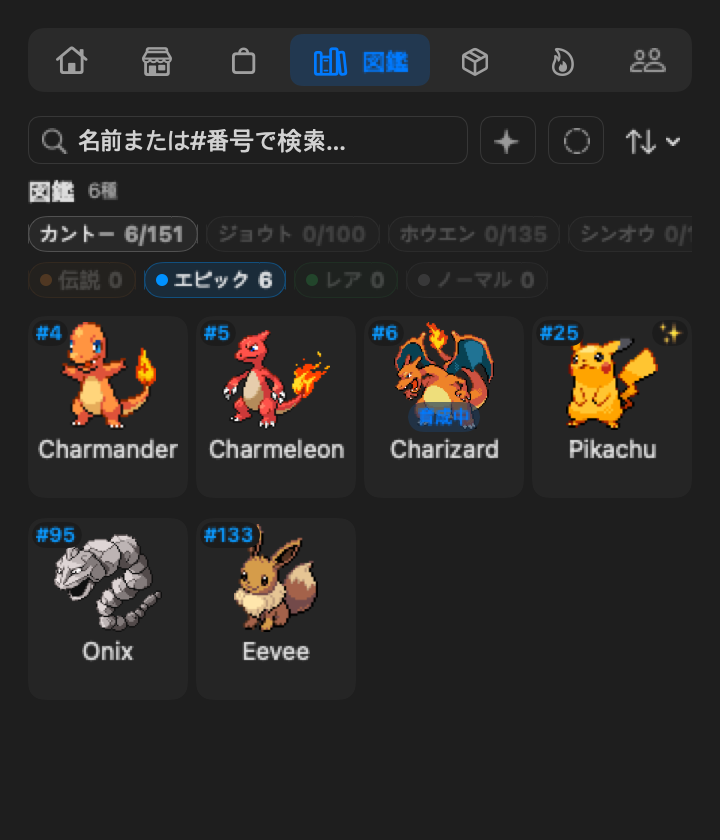
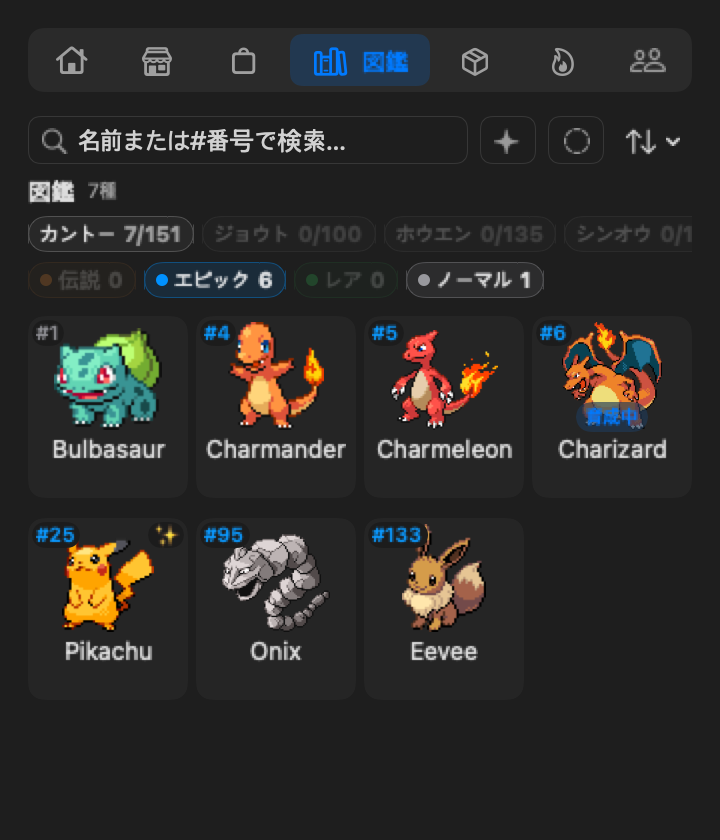
landing: let Box Pokémon join as friends, add Exp. Share moves and Box evolution, and redraw the Box, Exp. Share, Shop, gym and profile images

diff --git a/index.html b/index.html
@@ -82,7 +82,7 @@ try { var savedTheme=localStorage.getItem('ptb-theme'); if(savedTheme==='dark'||
 <article><h4 data-i18n="c2.t">Alternate forms</h4><p data-i18n="c2.d">Collect Rotom appliances, Deerling seasons, Unown letters and other Gen 1–5 forms. A form follows evolution and stays in your save.</p></article>
 <article><h4 data-i18n="c3.t">Token Shop</h4><p data-i18n="c3.d">Spend the tokens you have already used on Rare Candy, nature Mints, a Shiny Charm or a new egg.</p></article>
 <article><h4 data-i18n="c4.t">Rare Candy from limits</h4><p data-i18n="c4.d">Fill a 5-hour or weekly limit to earn Rare Candy. Use several at once and preview the growth first.</p></article>
-</div><figure class="group-media"><img src="assets/screenshot-shop.png" data-i18n-image="screenshot-shop" width="720" height="1096" loading="lazy" data-i18n-alt="alt.shop" alt="Native Shop sample showing consumable quantity controls and total price"><figcaption data-i18n="native.shop">Native UI · sample tokens · shop scroll view continues below.</figcaption></figure></div></div>
+</div><figure class="group-media"><img src="assets/screenshot-shop.png" data-i18n-image="screenshot-shop" width="720" height="1280" loading="lazy" data-i18n-alt="alt.shop" alt="Native Shop sample showing consumable quantity controls and total price"><figcaption data-i18n="native.shop">Native UI · sample tokens · shop scroll view continues below.</figcaption></figure></div></div>
 <div class="feature-group"><h3 data-i18n="grp.settings">Settings and extras</h3><div class="group-body"><div class="card-grid">
 <article><h4 data-i18n="x1.t">Eight languages</h4><p data-i18n="x1.d">The app UI comes in eight languages. Pokémon, type, ability and move names follow your language, with English as the fallback.</p></article>
 <article><h4 data-i18n="x2.t">Backups</h4><p data-i18n="x2.d">Automatic snapshots and corruption recovery, plus manual export and restore in Settings.</p></article>
@@ -102,8 +102,8 @@ try { var savedTheme=localStorage.getItem('ptb-theme'); if(savedTheme==='dark'||
 <article class="fork-card"><h3 data-i18n="k15.t">See what comes next</h3><p data-i18n="k15.d">A Pokédex page shows how the species evolves next and what the app asks for, like Munchlax’s 30 pets to become Snorlax. When the Pokémon you raise is on that path, the card shows its progress. On Home, tap the next form to open its page.</p><figure><img src="assets/screenshot-dex-next-evolution.png" data-i18n-image="screenshot-dex-next-evolution" width="720" height="1020" loading="lazy" data-i18n-alt="alt.nextEvo" alt="Native Pokédex page sample for Snorlax with the 30-pet condition at 3/30"><figcaption data-i18n="native.current">Native UI renders · sample states</figcaption></figure></article>
 <article class="fork-card"><h3 data-i18n="k7.t">Held items and Mega Evolution</h3><p data-i18n="k7.d">Equip a held item on a Pokémon’s Box page. The Shop and Bag group battle items by what they do, from attack boosts to weather. A Pokémon holding its Mega Stone Mega Evolves at the start of a battle, and Home, the floating pet and the menu bar show the Mega form.</p><figure class="crop"><img src="assets/screenshot-held-items.png" data-i18n-image="screenshot-held-items" width="720" height="1638" loading="lazy" data-i18n-alt="alt.held" alt="Native Shop and Bag sample with held items under Attack boost and Type boost"><figcaption data-i18n="native.current">Native UI renders · sample states</figcaption></figure></article>
 <article class="fork-card"><h3 data-i18n="k8.t">Moves and TMs</h3><p data-i18n="k8.d">A Pokémon’s Box page lists its four moves, and you can swap one for a level-up, egg or TM move, including status moves like Swords Dance. Buy a TM once in the Shop and every Pokémon that can learn it may use it.</p><figure class="crop"><img src="assets/screenshot-pokemon-profile.png" data-i18n-image="screenshot-pokemon-profile" width="720" height="1120" loading="lazy" data-i18n-alt="alt.profile" alt="Native Box detail sample with a Pokémon's stats, held item, Exp. Share slot and moves"><figcaption data-i18n="native.current">Native UI renders · sample states</figcaption></figure></article>
-<article class="fork-card"><h3 data-i18n="k9.t">Exp. Share</h3><p data-i18n="k9.d">Attach an Exp. Share to one Pokémon in the Box. It gets 50% of the EXP your current Pokémon or egg earns, so a graduate keeps growing while you raise the next one. When a new egg sends your partner to the Box, an Exp. Share from your Bag goes on it.</p><figure><img src="assets/screenshot-exp-share.png" data-i18n-image="screenshot-exp-share" width="720" height="744" loading="lazy" data-i18n-alt="alt.expShare" alt="Native Box detail sample with an Exp. Share attached to Pikachu"><figcaption data-i18n="native.current">Native UI renders · sample states</figcaption></figure></article>
-<article class="fork-card"><h3 data-i18n="k11.t">Friends beside your partner</h3><p data-i18n="k11.d">Pick up to two graduated Pokémon as friends. They stand next to your partner on Home and on the floating pet, and petting a friend pops a heart over it.</p><figure><img src="assets/screenshot-floating-friends.png" width="720" height="384" loading="lazy" data-i18n-alt="alt.friends" alt="Two graduated friends standing beside the floating pet, one with a heart"><figcaption data-i18n="native.friends">Native UI render · sample Pokémon</figcaption></figure></article>
+<article class="fork-card"><h3 data-i18n="k9.t">Exp. Share</h3><p data-i18n="k9.d">Attach an Exp. Share to one Pokémon in the Box. It gets 50% of the EXP your current Pokémon or egg earns, so a graduate keeps growing while you raise the next one. When a new egg sends your partner to the Box, an Exp. Share from your Bag goes on it. Move here on a Box page moves a copy from another holder, even with an empty Bag, and a holder in the Box evolves there when the next step needs only EXP, a level, friends or a type.</p><figure><img src="assets/screenshot-exp-share.png" data-i18n-image="screenshot-exp-share" width="720" height="760" loading="lazy" data-i18n-alt="alt.expShare" alt="Native Box detail sample for a stored Bulbasaur with Move here and Attach for the Exp. Share"><figcaption data-i18n="native.current">Native UI renders · sample states</figcaption></figure></article>
+<article class="fork-card"><h3 data-i18n="k11.t">Friends beside your partner</h3><p data-i18n="k11.d">Pick up to two friends from your graduates and the Pokémon waiting in the Box. They stand next to your partner on Home and on the floating pet in their current form, and petting a friend pops a heart over it. When a new egg or a scout sends your partner to the Box while a slot is free, it joins as a friend.</p><figure><img src="assets/screenshot-stored-friends.png" data-i18n-image="screenshot-stored-friends" width="720" height="650" loading="lazy" data-i18n-alt="alt.storedFriends" alt="Native friend picker sample offering a stored Bulbasaur, and Home with that Bulbasaur walking beside Charizard"><figcaption data-i18n="native.current">Native UI renders · sample states</figcaption></figure></article>
 <article class="fork-card"><h3 data-i18n="k10.t">Trades and the Linking Cord</h3><p data-i18n="k10.d">Trade graduated Pokémon with a linked coworker from the Friends tab; the other side accepts in Slack. Trade evolutions such as Haunter or Kadabra wait for a trade, or for a Linking Cord from the Shop. Some also need a held item first, like Onix with a Metal Coat.</p></article>
 <article class="fork-card"><h3 data-i18n="k12.t">Scout Tickets and better eggs</h3><p data-i18n="k12.d">A Scout Ticket shows 10 random Pokémon from one region, or from all of them, and you pick the egg you want. A Rare Egg hatches Rare or better, and an Epic Egg hatches Epic or better.</p></article>
 <article class="fork-card"><h3 data-i18n="k13.t">Day, night and tricky evolutions</h3><p data-i18n="k13.d">Day and night switch every 10 minutes on the clock, and Home shows a sun-and-moon dial. Unusual evolutions become conditions the app can check, and a notice tells you what is blocking one.</p></article>
@@ -194,5 +194,5 @@ try { var savedTheme=localStorage.getItem('ptb-theme'); if(savedTheme==='dark'||
 </ul><p class="note" data-i18n="providers.note">Limits depend on your login: official Claude, Codex and Antigravity limits, OpenCode Go allowances and Grok CLI subscription credits. Devin CLI and Kimi Code record no cost, so their cost shows as unavailable.</p></div></section>
 <section class="section faq"><div class="wrap faq-layout"><h2 data-i18n="faq.title" >A few good questions.</h2><div><details><summary><span data-i18n="faq.free.q" >Is it free?</span></summary><div class="details-body"><p data-i18n="faq.free.a" >Yes. PokeTokenBar is a free, open-source fan project. Shop items use the tokens you’ve already spent on coding, not real-money purchases.</p></div></details><details><summary><span data-i18n="faq.notool.q">Do I need an AI coding tool?</span></summary><div class="details-body"><p data-i18n="faq.notool.a">No. Time mode grows your partner from the time you are active on your Mac. Usage and limit tracking needs at least one supported tool.</p></div></details><details><summary><span data-i18n="faq.privacy.q" >Does it upload my usage logs?</span></summary><div class="details-body"><p data-i18n="faq.privacy.a" >No. Usage logs stay on your Mac. The app still uses the network for provider usage and limits, Pokémon data and sprites, service status and updates. It is not a fully offline app.</p></div></details><details><summary><span data-i18n="faq.cost.q" >Does raising a Pokémon spend extra tokens?</span></summary><div class="details-body"><p data-i18n="faq.cost.a" >No. The app reads usage from your supported coding tools. It doesn’t run model turns to grow your companion.</p></div></details><details><summary><span data-i18n="faq.fork.q">How is this different from PokeTokenBar?</span></summary><div class="details-body"><p data-i18n="faq.fork.a">PokeTokenBar-yp is an unofficial fork of chattymin’s PokeTokenBar (MIT). It adds the features under Only in PokeTokenBar-yp. Report problems with this fork here, not to the original project.</p><a class="text-link" href="https://github.com/chattymin/PokeTokenBar" target="_blank" rel="noopener">chattymin/PokeTokenBar</a></div></details><details><summary><span data-i18n="faq.source.q" >Can I build it myself?</span></summary><div class="details-body"><p data-i18n="faq.source.a" >Yes. The Swift source, build instructions and issue tracker are on GitHub.</p><a class="text-link" href="https://github.com/w8385/PokeTokenBar-yp" target="_blank" rel="noopener">GitHub</a></div></details></div></div></section>
 </main><footer class="site-footer"><div class="wrap"><div class="footer-top"><a class="brand" href="#top"><img src="assets/icon.png" width="32" height="32" alt=""><span>PokeTokenBar</span></a><nav class="footer-links" data-i18n-aria="aria.project" aria-label="Project links"><a data-i18n="footer.source" href="https://github.com/w8385/PokeTokenBar-yp" target="_blank" rel="noopener">Source code</a><a data-i18n="footer.releases" href="https://github.com/w8385/PokeTokenBar-yp/releases" target="_blank" rel="noopener">Release notes</a><a data-i18n="footer.help" href="https://github.com/w8385/PokeTokenBar-yp/issues" target="_blank" rel="noopener">Get help</a><a data-i18n="footer.upstream" href="https://github.com/chattymin/PokeTokenBar" target="_blank" rel="noopener">Original by chattymin</a><a data-i18n="footer.sponsor" href="https://github.com/sponsors/chattymin" target="_blank" rel="noopener">Sponsor</a></nav></div><p data-i18n="foot.disclaimer" class="disclaimer">Pokémon data &amp; sprites by PokéAPI. This is an unofficial, non-commercial fan project. It is not affiliated with, endorsed, sponsored, or approved by Nintendo, Game Freak, or The Pokémon Company. Pokémon and Pokémon character names are trademarks of Nintendo; names, data, and sprites are © Nintendo / Game Freak / The Pokémon Company, used at runtime for identification only. The MIT license covers this project's source code only.</p></div></footer>
-<script src="app.js?v=4416a9fd" defer></script>
+<script src="app.js?v=f541b21e" defer></script>
 </body></html>

diff --git a/app.js b/app.js
@@ -173,14 +173,13 @@ const I18N = {
     "k8.d": "A Pokémon’s Box page lists its four moves, and you can swap one for a level-up, egg or TM move, including status moves like Swords Dance. Buy a TM once in the Shop and every Pokémon that can learn it may use it.",
     "alt.profile": "Native Box detail sample with a Pokémon's stats, held item, Exp. Share slot and moves",
     "k9.t": "Exp. Share",
-    "k9.d": "Attach an Exp. Share to one Pokémon in the Box. It gets 50% of the EXP your current Pokémon or egg earns, so a graduate keeps growing while you raise the next one. When a new egg sends your partner to the Box, an Exp. Share from your Bag goes on it.",
-    "alt.expShare": "Native Box detail sample with an Exp. Share attached to Pikachu",
+    "k9.d": "Attach an Exp. Share to one Pokémon in the Box. It gets 50% of the EXP your current Pokémon or egg earns, so a graduate keeps growing while you raise the next one. When a new egg sends your partner to the Box, an Exp. Share from your Bag goes on it. Move here on a Box page moves a copy from another holder, even with an empty Bag, and a holder in the Box evolves there when the next step needs only EXP, a level, friends or a type.",
+    "alt.expShare": "Native Box detail sample for a stored Bulbasaur with Move here and Attach for the Exp. Share",
     "k10.t": "Trades and the Linking Cord",
     "k10.d": "Trade graduated Pokémon with a linked coworker from the Friends tab; the other side accepts in Slack. Trade evolutions such as Haunter or Kadabra wait for a trade, or for a Linking Cord from the Shop. Some also need a held item first, like Onix with a Metal Coat.",
     "k11.t": "Friends beside your partner",
-    "k11.d": "Pick up to two graduated Pokémon as friends. They stand next to your partner on Home and on the floating pet, and petting a friend pops a heart over it.",
-    "alt.friends": "Two graduated friends standing beside the floating pet, one with a heart",
-    "native.friends": "Native UI render · sample Pokémon",
+    "k11.d": "Pick up to two friends from your graduates and the Pokémon waiting in the Box. They stand next to your partner on Home and on the floating pet in their current form, and petting a friend pops a heart over it. When a new egg or a scout sends your partner to the Box while a slot is free, it joins as a friend.",
+    "alt.storedFriends": "Native friend picker sample offering a stored Bulbasaur, and Home with that Bulbasaur walking beside Charizard",
     "k12.t": "Scout Tickets and better eggs",
     "k12.d": "A Scout Ticket shows 10 random Pokémon from one region, or from all of them, and you pick the egg you want. A Rare Egg hatches Rare or better, and an Epic Egg hatches Epic or better.",
     "k13.t": "Day, night and tricky evolutions",
@@ -454,14 +453,13 @@ const I18N = {
     "k8.d": "포켓몬의 박스 페이지에 기술 네 개가 나오고, 레벨업·알 기술이나 기술머신 기술로 하나씩 바꿀 수 있어요. 칼춤 같은 변화 기술도 돼요. 기술머신은 상점에서 한 번 사면 배울 수 있는 모든 포켓몬이 쓸 수 있어요.",
     "alt.profile": "능력치·지닌 도구·학습장치 칸·기술을 보여 주는 실제 박스 상세 UI 샘플",
     "k9.t": "학습장치",
-    "k9.d": "박스 포켓몬 하나에 학습장치를 달아 주세요. 그 포켓몬은 지금 키우는 포켓몬이나 알이 얻는 경험치의 50%를 함께 받아서, 다음 포켓몬을 키우는 동안 졸업한 포켓몬도 계속 자라요. 새 알로 파트너를 박스에 보내면 가방의 학습장치 하나가 그 포켓몬에 달려요.",
-    "alt.expShare": "피카츄에 학습장치를 단 실제 박스 상세 UI 샘플",
+    "k9.d": "박스 포켓몬 하나에 학습장치를 달아 주세요. 그 포켓몬은 지금 키우는 포켓몬이나 알이 얻는 경험치의 50%를 함께 받아서, 다음 포켓몬을 키우는 동안 졸업한 포켓몬도 계속 자라요. 새 알로 파트너를 박스에 보내면 가방의 학습장치 하나가 그 포켓몬에 달려요. 박스 화면의 여기로 옮기기로 다른 포켓몬의 학습장치를 가져올 수 있고, 가방이 비어 있어도 돼요. 학습장치를 단 박스 포켓몬은 경험치·레벨·친구·타입만 필요한 단계라면 박스에서 진화해요.",
+    "alt.expShare": "여기로 옮기기와 달기 버튼이 보이는 박스 속 이상해씨의 실제 상세 UI 샘플",
     "k10.t": "교환과 연결의끈",
     "k10.d": "친구 탭에서 연결한 동료와 졸업한 포켓몬을 맞바꿔요. 상대는 슬랙에서 수락해요. 고우스트·윤겔라처럼 교환으로 진화하는 포켓몬은 교환하거나 상점의 연결의끈을 쓸 때까지 기다려요. 롱스톤과 금속코트처럼 도구를 먼저 지녀야 하는 경우도 있어요.",
     "k11.t": "파트너 곁의 친구",
-    "k11.d": "졸업한 포켓몬을 최대 두 마리까지 친구로 고르세요. 홈과 플로팅 펫에서 파트너 옆에 서고, 친구를 쓰다듬으면 그 위에 하트가 떠요.",
-    "alt.friends": "플로팅 펫 옆에 선 졸업한 친구 두 마리, 한 마리 위에 하트",
-    "native.friends": "실제 UI 렌더 · 샘플 포켓몬",
+    "k11.d": "졸업한 포켓몬과 박스에서 쉬는 포켓몬 중에서 최대 두 마리까지 친구로 고르세요. 홈과 플로팅 펫에서 지금 모습 그대로 파트너 옆에 서고, 친구를 쓰다듬으면 그 위에 하트가 떠요. 새 알이나 스카우트로 파트너를 박스에 보낼 때 친구 칸이 비어 있으면 그 포켓몬이 친구로 들어와요.",
+    "alt.storedFriends": "보관 중인 이상해씨를 고를 수 있는 친구 선택과, 리자몽 옆을 걷는 이상해씨가 보이는 실제 홈 UI 샘플",
     "k12.t": "스카우트 티켓과 더 좋은 알",
     "k12.d": "스카우트 티켓은 한 지방이나 전체에서 포켓몬 10마리를 무작위로 보여 주고, 그중 원하는 알을 고르게 해요. 희귀 알은 희귀 이상, 고급 알은 고급 이상으로 부화해요.",
     "k13.t": "낮과 밤, 까다로운 진화",
@@ -735,14 +733,13 @@ const I18N = {
     "k8.d": "ポケモンのボックスページには4つのわざが並び、レベルアップわざ・タマゴわざ・わざマシンのわざと1つずつ入れ替えられます。つるぎのまいのような変化わざも使えます。わざマシンはショップで一度買えば、覚えられるすべてのポケモンが使えます。",
     "alt.profile": "能力値・もちもの・がくしゅうそうちの枠・技を示す実際のボックス詳細UIサンプル",
     "k9.t": "がくしゅうそうち",
-    "k9.d": "ボックスのポケモン1匹に、がくしゅうそうちをつけます。そのポケモンは、いま育てているポケモンやタマゴが得る経験値の50%を一緒に受け取るので、次のポケモンを育てている間も卒業したポケモンが育ち続けます。新しいタマゴでパートナーをボックスに預けると、バッグのがくしゅうそうちを1つそのポケモンにつけます。",
-    "alt.expShare": "ピカチュウにがくしゅうそうちをつけた実際のボックス詳細UIサンプル",
+    "k9.d": "ボックスのポケモン1匹に、がくしゅうそうちをつけます。そのポケモンは、いま育てているポケモンやタマゴが得る経験値の50%を一緒に受け取るので、次のポケモンを育てている間も卒業したポケモンが育ち続けます。新しいタマゴでパートナーをボックスに預けると、バッグのがくしゅうそうちを1つそのポケモンにつけます。ボックス画面の「ここに移す」で、ほかのポケモンのがくしゅうそうちを付け替えられます。バッグが空でもかまいません。がくしゅうそうちをつけたボックスのポケモンは、経験値・レベル・フレンド・タイプだけで進める段階ならボックスで進化します。",
+    "alt.expShare": "「ここに移す」と「つける」が見える、ボックスのフシギダネの実際の詳細UIサンプル",
     "k10.t": "通信交換とつながりのヒモ",
     "k10.d": "フレンドタブから、つながった同僚と卒業したポケモンを交換できます。相手は Slack で承諾します。ゴーストやユンゲラーのように交換で進化するポケモンは、交換するか、ショップのつながりのヒモを使うまで待ちます。イワークとメタルコートのように、先に道具を持たせる必要がある場合もあります。",
     "k11.t": "パートナーのそばのフレンド",
-    "k11.d": "卒業したポケモンを最大2匹までフレンドに選べます。ホームとデスクトップペットでパートナーの横に並び、フレンドをなでるとその上にハートが浮かびます。",
-    "alt.friends": "デスクトップペットの横に並ぶ卒業したフレンド2匹と、1匹の上に浮かぶハート",
-    "native.friends": "実際のUIレンダー · サンプルポケモン",
+    "k11.d": "卒業したポケモンとボックスで待っているポケモンから、最大2匹までフレンドに選べます。ホームとデスクトップペットで、いまの姿のままパートナーの横に並び、フレンドをなでるとその上にハートが浮かびます。新しいタマゴやスカウトでパートナーをボックスに預けるとき、フレンドの枠が空いていれば、そのポケモンがフレンドに加わります。",
+    "alt.storedFriends": "預け中のフシギダネを選べるフレンド選択と、リザードンの横を歩くフシギダネが見える実際のホームUIサンプル",
     "k12.t": "スカウトチケットと、よりよいタマゴ",
     "k12.d": "スカウトチケットは、ひとつの地方か全地方からポケモンを10匹ランダムに見せ、ほしいタマゴを選ばせてくれます。レアのタマゴはレア以上、エピックのタマゴはエピック以上が孵ります。",
     "k13.t": "昼と夜、むずかしい進化",
